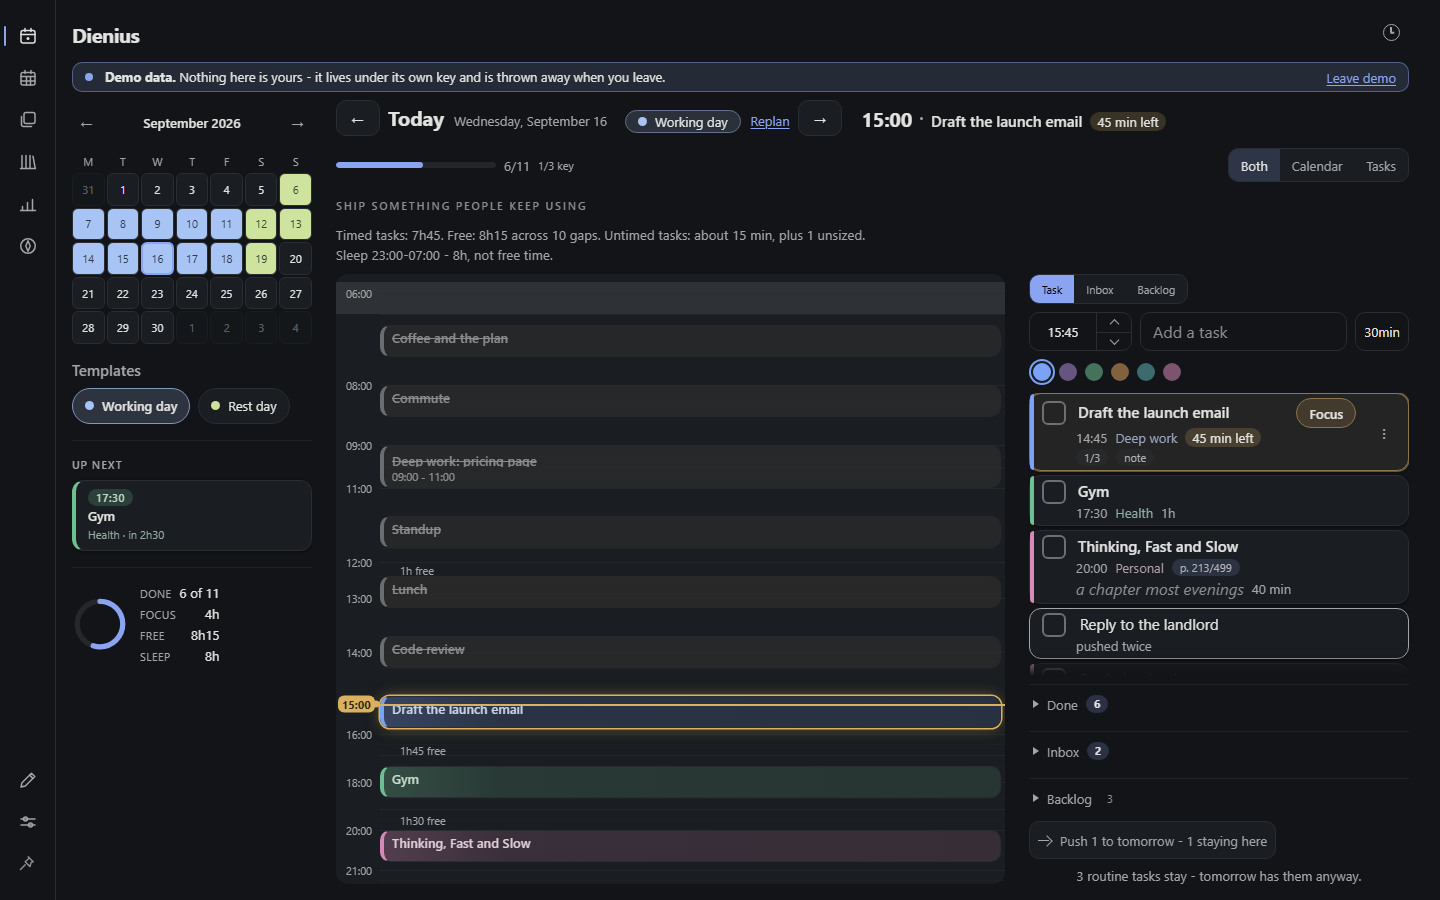
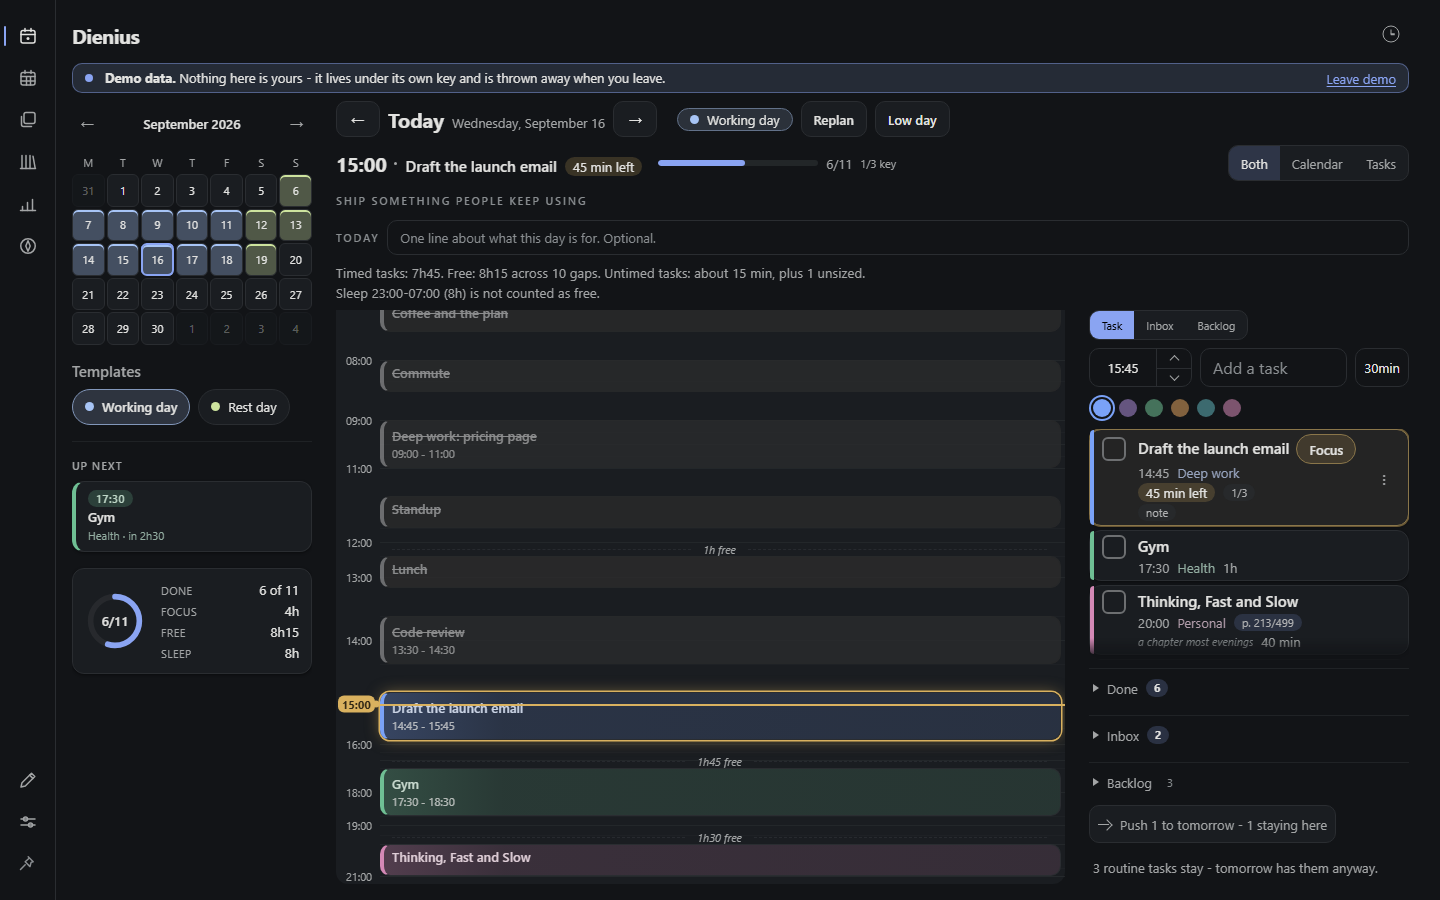
v2.4 closes: the gates run, the README's screenshots regenerated, and the wave named stage by stage
The closing commit of the polish wave. The code is in the six commits
before this one; this is what a release owes after them.

The gates, all clean:

  npx tsc --noEmit          nothing
  npx vitest run            2176 tests in 127 files
  npm run build             built
  npm run e2e               30 tests, desktop and phone
  npm run sweep             0 findings
  npm run sweep -- --phone  0 findings

The sweep's self-check first, because a clean report from a blind pass
is worse than no report: seven planted defects in seven shapes, all seven
seen.

The critique that closed the wave was two desktop passes at 1920x1080 and
1366x768 and one on the phone, in both themes, on the sample day. Its
findings are the commit before this one, not a list here: the browser's
own 16px standing in as an undeclared fifth type size on four screens,
five strings under AA that the contrast audit could not see because it
could not read a color-mix() colour, and the touch target written as a
number in a hundred and twenty five places.

The README's eight screenshots are regenerated from the demo under the
pinned clock, so the low day's door is in the picture of the day and the
type on every one of them is the type that ships.

STATE has the wave's table with a commit against each stage, the version
history row, and the tag table; DECISIONS has "The pixel standard", which
is the owner's sentence about a gap too wide or too narrow turned into
things a test can hold.

diff --git a/docs/STATE.md b/docs/STATE.md
@@ -6,16 +6,19 @@ got here, and what is still owed. Read it, then
 [`ARCHITECTURE.md`](ARCHITECTURE.md) for where the code lives. Those three
 should leave you able to start without re-reading the repo.
 
-**Last updated:** v2.3, closed and tagged. One stage, the owner's brief for
-the journal: three lines a day that never count - "Today: ..." under the
-North line in the morning, and two questions on the evening close card,
-what was real today and what to tell yourself tomorrow - kept on the day
-entity, read under the day in the week's agenda, and copied as markdown for
-the week or the month to paste into another chat. Before it, v2.2's Replan
-v2. Section 4 has both tables, commit by commit; the tag is `dcec338` and this
-handoff sits one commit above it. **Nothing is owed**: the
-debts table is unchanged and every entry in it is a trade with its reason,
-and the next brief comes from the owner.
+**Last updated:** v2.4, closed and tagged. The polish wave, briefed by the
+owner in one message and run end to end: the navigation rail opening by
+itself whenever another window handed focus back (it opens on intent only
+now - a pointer that comes in and moves and is still there 150ms later, a
+Tab, the pin); a pixel audit of six screens from the owner's own
+screenshots, each measured before and after, with both scales written into
+CONVENTIONS section 5 and a test holding the stylesheet to them; two small
+features for the days the plan was not written for, a low day at 40% and a
+timer on a step; and a critique pass that found the fifth type size nobody
+had declared and five strings under AA that the contrast audit could not
+see. Section 4 has the table, commit by commit. **Nothing is owed**: the debts table
+is unchanged and every entry in it is a trade with its reason, and the next
+brief comes from the owner.
 
 v2.0 itself was six stages - categories the owner names, North as a window
 with every rule under the goal it protects, an explanation for each of the
@@ -135,6 +138,7 @@ reading them.
 
 | **v2.2** | Replan v2: "Something came up" for any day of the week, as the phone call it is answered on. One sheet at the app root from six doors - the day header on today and any later day, the week's bar, the calendar's day preview, the palette, the R key. Today, tomorrow and the five days after as chips, then the morning, afternoon, evening or whole day gone against that day's own waking window, a time and a length, or don't know how long; a typed line in Lithuanian or English that the chips follow and that a pressed chip takes its word out of; the plan proposed with the template's blocks skipped and one-offs moved into the gaps after it, key tasks first; a day nobody opened made from its weekday template before the plan lands; the free-windows line above Accept; one undo; "replanned" on the week. `ensuredDay` as the pure half of `ensureDay`, `DayPlan.replannedOn`, and a phone-sized browser test measuring three presses with nothing scrolled |
 
+| **v2.4** | The polish wave. The rail opens on intent only, after four ways in were told apart from a window changing hands. Six screens measured against the owner's screenshots and rebuilt: Today's header as three groups, gap labels as dividers, a two-line floor for an hour or longer; the task sheet's footer; the month as a wash and a strip; the week's 15px floor; the template editors and the library. Two scales, in CONVENTIONS section 5, with `scale.test.ts` reading the stylesheet against them. A low day - one press, the key tasks at 40%, the routine kept, the rest to tomorrow, the score on the key tasks alone - and a step that carries a timer. Then the critique: the browser's 16px as an undeclared fifth size on four screens, five strings under AA behind a colour parser that could not read a `color-mix()`, `--touch` named once for a hundred and twenty five places, and a chosen swatch's ring given its room back and its gap drawn in the ground, which is what the owner saw first |
 | **v2.3** | The journal: "Today: ..." under the North line in the morning, and two questions on the evening close card - what was real today, and what to tell yourself tomorrow - all optional, plain text, never counted or streaked, kept on the day entity with no migration. Read under the day in the week's agenda, the morning line under a day's name on the desktop grid, and copied as markdown for the week under the week or for the week or month in Review, to paste into another chat |
 
 | **v2.0, second half** | Six stages that finish what the first half started, all of them about the app being *understood* rather than being complete. Categories became the owner's: a list in `AppData` rather than a literal in a module, twelve curated colours with a readability gate, and a delete that moves what it would orphan. North became a window with every if-then rule under the goal it protects - a rule with no goal is noise, under a goal it is armour - and the day view's old one-rule-at-a-time surfacing went with the three fields it needed. Twenty invented words got a sentence each, in one file, checked by a test whose data is the list itself. One reading queue of twenty books became three lanes that advance on their own. Then a clean pass over sixteen places: seven text tabs became a rail of icons, month cells started saying what is on a day rather than what the day was called, resting on one shows the whole day, the week gained a second reading and a place for the backlog beside it, and the template editor stopped opening with eight colour balls above the name |
@@ -172,11 +176,11 @@ with the rail down the left.
 
 | # | Stage | Commit | What it became |
 |---|---|---|---|
-| 0 | Written down first | - | The brief and the decisions it forced, in this file, before any code |
-| 1 | The rail opens on intent only | - | The cause: React's `onFocus` is `focusin`, and a browser re-fires focus on the item last pressed whenever another window gives this one back. Three ways in now - a mouse that comes in and moves and is still there 150ms later, a Tab, the pin - and the window changing hands is none of them. Six tests in `NavRail.test.tsx`, checked in the pane at 1920x1080 against the real event stream; DECISIONS "The rail opens on intent only" |
+| 0 | Written down first | `95d65a9` | The brief and the decisions it forced, in this file, before any code |
+| 1 | The rail opens on intent only | `622a883` | The cause: React's `onFocus` is `focusin`, and a browser re-fires focus on the item last pressed whenever another window gives this one back. Three ways in now - a mouse that comes in and moves and is still there 150ms later, a Tab, the pin - and the window changing hands is none of them. Six tests in `NavRail.test.tsx`, checked in the pane at 1920x1080 against the real event stream; DECISIONS "The rail opens on intent only" |
 | 2 | The pixel audit | `536061b`, `57b36be`, `dc27a75`, `5b2bce8`, `afb1275`, `c2e7c04` | Six screens from the owner's screenshots, each measured before and after, one commit per screen: Today (the header as three groups, a masthead from 1500px, gap labels as dividers kept clear of the now line, every block its floor and a two-line floor for an hour or longer, the digest as one card, the day column at 760px); the task sheet (the cross in the corner, a footer with Delete and Done, the size said once); the month (a wash and a strip instead of a pastel, one rule for every day, everything left); the week grid (a 15px floor, a past day offering nothing at rest); the template editors and the library (WHAT and WHERE, "Week default", coloured swatches, a length held, rows of one height, a disabled button that reads as one). Then both scales written into CONVENTIONS section 5 with `scale.test.ts` holding the stylesheet to them, 71 on-scale literals made tokens and 30 off-scale ones moved, and the sweep at zero on the desktop and the phone |
-| 3 | Low day, and a timer on a step | - | One press beside Replan: the key tasks at 40% of their length on the five-minute grid and never under fifteen minutes, the routine where it was, the rest to tomorrow as a proposal with Accept and one undo, a quiet mark under the date, and the score on the key tasks alone. A step's trailing length ("Meditation 10 min") starts the one timer for that step, and the bell ticks the step. `lowDay.test.ts` and `FloatingClock.test.tsx` new, `e2e/lowday.e2e.ts` new, ten test files touched; DAILY "When you do not feel like it" and "A ritual as one block"; DECISIONS "A low day is the 40% doctrine as one press" and "A step can carry a timer". Mid-stage, from the owner's screenshot: the chosen swatch's ring, cut by the task column's scroller and drawn in the card colour on the page - the inset back, `--ground` for the gap, and two new shapes in the sweep's audit with two more screens on its list |
-| 4 | The critique and `v2.4` | - | Every screen at 1920x1080 and 1366x768 in both themes, by the same standard. The fifth type size nobody declared: the browser's own 16px, which every unsized button fell to, plus a template card's name, a step's title and a pace line - the body says `--t-sm` now and a button inherits, the arrows read at the glyph size, and every screen is four sizes with the input floor and the glyph exempt. Five strings under AA that the audit could not see, because Chrome hands a `color-mix()` back as `color(srgb ...)` and the parser read it as nothing. `--touch` for the 44px in a hundred and twenty five places. `scale.test.ts` reads whole lines, which found twenty literals inside one-line rules. Three screens added to the sweep. Both sweeps at zero, desktop and phone; DECISIONS "The pixel standard" |
+| 3 | Low day, and a timer on a step | `b21f346`, `7c5d90a` | One press beside Replan: the key tasks at 40% of their length on the five-minute grid and never under fifteen minutes, the routine where it was, the rest to tomorrow as a proposal with Accept and one undo, a quiet mark under the date, and the score on the key tasks alone. A step's trailing length ("Meditation 10 min") starts the one timer for that step, and the bell ticks the step. `lowDay.test.ts` and `FloatingClock.test.tsx` new, `e2e/lowday.e2e.ts` new, ten test files touched; DAILY "When you do not feel like it" and "A ritual as one block"; DECISIONS "A low day is the 40% doctrine as one press" and "A step can carry a timer". Mid-stage, from the owner's screenshot: the chosen swatch's ring, cut by the task column's scroller and drawn in the card colour on the page - the inset back, `--ground` for the gap, and two new shapes in the sweep's audit with two more screens on its list |
+| 4 | The critique and `v2.4` | the closing commit | Every screen at 1920x1080 and 1366x768 in both themes, by the same standard. The fifth type size nobody declared: the browser's own 16px, which every unsized button fell to, plus a template card's name, a step's title and a pace line - the body says `--t-sm` now and a button inherits, the arrows read at the glyph size, and every screen is four sizes with the input floor and the glyph exempt. Five strings under AA that the audit could not see, because Chrome hands a `color-mix()` back as `color(srgb ...)` and the parser read it as nothing. `--touch` for the 44px in a hundred and twenty five places. `scale.test.ts` reads whole lines, which found twenty literals inside one-line rules. Three screens added to the sweep. Both sweeps at zero, desktop and phone; DECISIONS "The pixel standard" |
 
 #### The brief, as understood
 
@@ -466,7 +470,8 @@ and pushed. Nothing below this table is owed.
 | `v2.0` | `890e0ad` | Both halves. The tag was **moved forward** to the closing commit, as the plan written at the time said it would be |
 | `v2.1` | `1384518` | North v2, the phone wave and the bug hunt, on top of the week-templates wave. Two commits sit above it, untagged: the zone-name table and this handoff |
 | `v2.2` | `a7cc157` | Replan v2, on top of everything above: the plan, the arithmetic, the sheet, and the closing |
-| `v2.3` | `dcec338` | The journal, on top of v2.2. One commit sits above it, untagged: this handoff |
+| `v2.3` | `dcec338` | The journal, on top of v2.2. One commit sits above it, untagged: the handoff of the time |
+| `v2.4` | the closing commit | The polish wave, on top of v2.3 |
 
 The move is why `v2.0-desktop` exists: nothing was published between the two
 halves, so one version number is honest, but the earlier commit is worth
